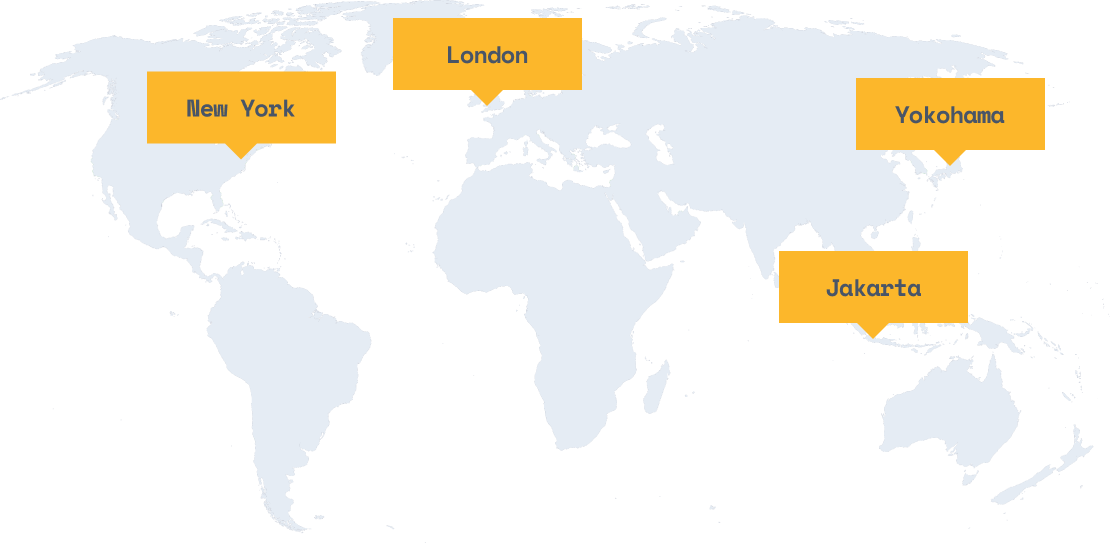
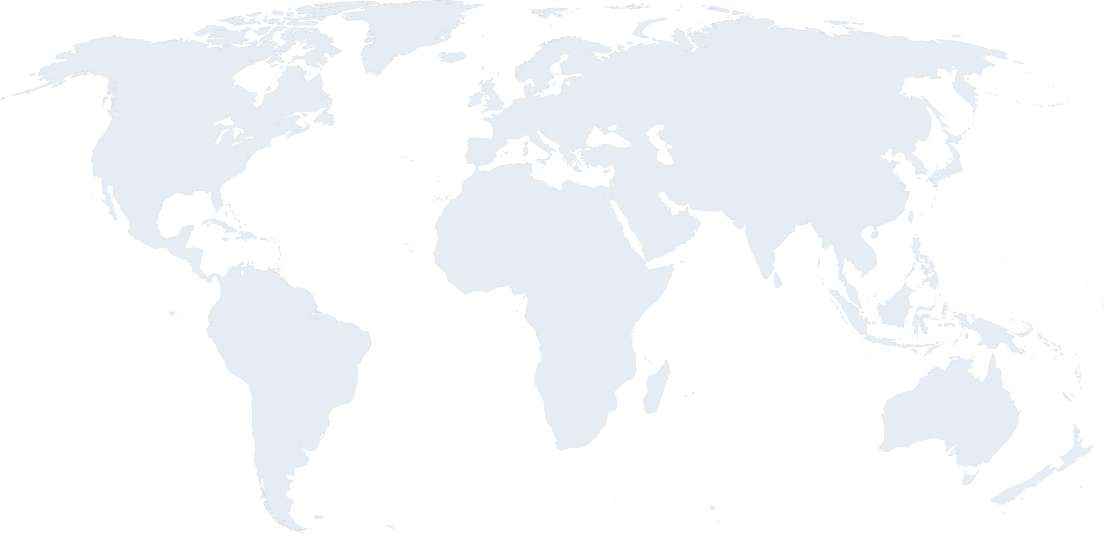
update index.html

diff --git a/styles/style.scss b/styles/style.scss
@@ -547,6 +547,12 @@ section{
 
 
 //locations landing page
+.world-map{
+    .container{
+        position: relative;
+    }
+}
+
 
 .world-map-info{
     padding-top: 50px;
@@ -560,6 +566,37 @@ section{
     }
 }
 
+.london-img,
+.new-york-img,
+.yokohoma-img,
+.jakarta-img{
+    position: absolute;
+}
+
+.new-york-img{
+    left: 13%;
+    top: 7%;
+}
+
+.london-img{
+    left: 35%;
+    top: 0%;
+}
+
+.yokohoma-img{
+    right: 7%;
+    top: 8%;
+}
+
+
+.jakarta-img{
+    top: 29%;
+    right: 13%;
+}
+
+.world-map-countries{
+    display: none;
+}
 //MEIDA QUERIES OF THE PAGES
 //HOME PAGE 
 
@@ -620,6 +657,18 @@ section{
     }
 
     //HOMEPAGE ends here
+
+    //locations page
+
+    .world-map-info{
+        flex-direction: column;
+
+        .text,
+        .header2{
+            width: 70%;
+            text-align: center;
+        }
+    }
 }
 
 
@@ -750,6 +799,26 @@ section{
     .careers-longline-from-right{
         top: 40%;
     }
+
+    //location page
+
+    .new-york-img{
+        top: 4%;
+    }
+
+    .london-img{
+        top: -1%;
+    }
+
+    .yokohoma-img{
+        right: 4%;
+    }
+
+    .jakarta-img{
+        right: 10%;
+        top: 25%;
+    }
+
 }
 
 
@@ -765,6 +834,31 @@ section{
 
     .benefits-line{
         left: -33%;
+    }
+
+    //location page
+
+    .new-york-img{
+        top: 5%;
+        left: 12%;
+        width: 20%;
+    }
+
+    .london-img{
+        top: -1%;
+        width: 20%;
+    }
+
+    .yokohoma-img{
+        top: 6%;
+        right: 5%;
+        width: 20%;
+    }
+
+    .jakarta-img{
+        right: 10%;
+        top: 22%;
+        width: 20%;
     }
 }
 
@@ -926,6 +1020,34 @@ section{
     .careers-btn{
         width: 80%;
     }
+
+
+    //loactions page
+
+    .london-img,
+    .new-york-img,
+    .yokohoma-img,
+    .jakarta-img{
+        display: none;
+    }
+
+    .world-map-img{
+        width: 100%;
+    }
+
+    .world-map-countries{
+        display: block;
+        padding: 20px  0;
+        text-align: center;
+
+        .header2{
+            background-color: rgba(252, 183, 43, 0.15);
+            margin: 10px 0;
+            padding: 20px 0;
+            color: $titleColor;
+        }
+    }
+
 }
 
 

diff --git a/styles/style.css b/styles/style.css
@@ -588,6 +588,10 @@ section {
   color: #495567;
 }
 
+.world-map .container {
+  position: relative;
+}
+
 .world-map-info {
   padding-top: 50px;
   display: -webkit-box;
@@ -607,6 +611,37 @@ section {
 
 .world-map-info p {
   width: 45%;
+}
+
+.london-img,
+.new-york-img,
+.yokohoma-img,
+.jakarta-img {
+  position: absolute;
+}
+
+.new-york-img {
+  left: 13%;
+  top: 7%;
+}
+
+.london-img {
+  left: 35%;
+  top: 0%;
+}
+
+.yokohoma-img {
+  right: 7%;
+  top: 8%;
+}
+
+.jakarta-img {
+  top: 29%;
+  right: 13%;
+}
+
+.world-map-countries {
+  display: none;
 }
 
 @media (max-width: 1160px) {
@@ -644,6 +679,17 @@ section {
   }
   .footer .container .footer-list {
     margin-left: -200px;
+  }
+  .world-map-info {
+    -webkit-box-orient: vertical;
+    -webkit-box-direction: normal;
+        -ms-flex-direction: column;
+            flex-direction: column;
+  }
+  .world-map-info .text,
+  .world-map-info .header2 {
+    width: 70%;
+    text-align: center;
   }
 }
 
@@ -765,6 +811,19 @@ section {
   .careers-longline-from-right {
     top: 40%;
   }
+  .new-york-img {
+    top: 4%;
+  }
+  .london-img {
+    top: -1%;
+  }
+  .yokohoma-img {
+    right: 4%;
+  }
+  .jakarta-img {
+    right: 10%;
+    top: 25%;
+  }
 }
 
 @media (max-width: 920px) {
@@ -777,6 +836,25 @@ section {
   }
   .benefits-line {
     left: -33%;
+  }
+  .new-york-img {
+    top: 5%;
+    left: 12%;
+    width: 20%;
+  }
+  .london-img {
+    top: -1%;
+    width: 20%;
+  }
+  .yokohoma-img {
+    top: 6%;
+    right: 5%;
+    width: 20%;
+  }
+  .jakarta-img {
+    right: 10%;
+    top: 22%;
+    width: 20%;
   }
 }
 
@@ -918,6 +996,26 @@ section {
   }
   .careers-btn {
     width: 80%;
+  }
+  .london-img,
+  .new-york-img,
+  .yokohoma-img,
+  .jakarta-img {
+    display: none;
+  }
+  .world-map-img {
+    width: 100%;
+  }
+  .world-map-countries {
+    display: block;
+    padding: 20px  0;
+    text-align: center;
+  }
+  .world-map-countries .header2 {
+    background-color: rgba(252, 183, 43, 0.15);
+    margin: 10px 0;
+    padding: 20px 0;
+    color: #495567;
   }
 }
 

diff --git a/location.html b/location.html
@@ -53,7 +53,20 @@
 
         <section class="world-map">
             <div class="container">
-                <img src="./images/world-map.png" alt="world-map">
+                <picture>
+                    <source media="(max-width: 780px)" srcset="./images/world-map-dot.png" class="world-map-dot">
+                    <img src="./images/world-map.png" alt="world-map" class="world-map-img">
+                </picture>
+                <img src="./images/New-york.png" alt="newYork" class="new-york-img">
+                <img src="./images/London.png" alt="london" class="london-img">
+                <img src="./images/Yokohoma.png" alt="yokohoma" class="yokohoma-img">
+                <img src="./images/Jakarta.png" alt="jakarta" class="jakarta-img">
+                <div class="world-map-countries">
+                    <h2 class="header2">New York</h2>
+                    <h2 class="header2">London</h2>
+                    <h2 class="header2">Jakarta</h2>
+                    <h2 class="header2">Yokohama</h2>
+                </div>
                 <div class="world-map-info">
                     <h2 class="header2">Your city not listed?</h2>
                     <p class="text">If you’d like to see Scoot in your hometown, be sure to let us know. We track requests and plan launches based on demand. Feel free to message us by clicking the link or messaging us on social.
